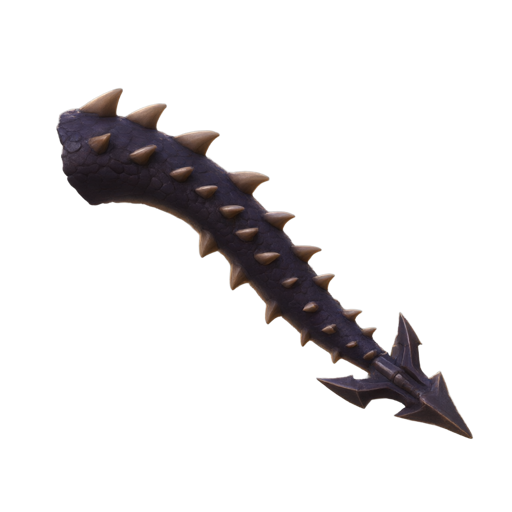
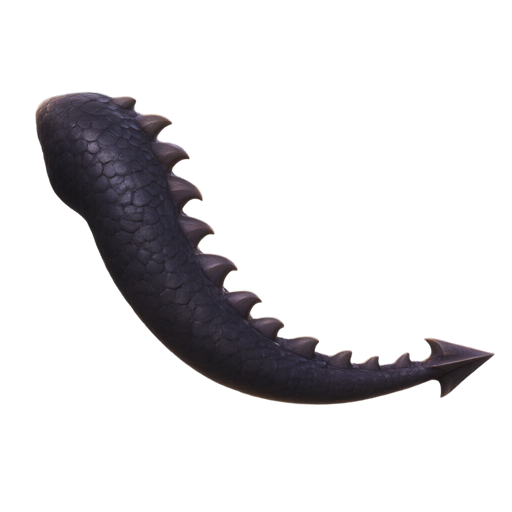
Anchor cosmetics on measured roots, not eyeballed ones
Crystal, demon and lightning wings hung in the air beside the dragon.
Their root points were placed by eye and several landed in transparent
space rather than on the wing, so the visible art sat off to one side of
where it was pinned. Leather looked right only because its guess
happened to be close.

Measured every root the same way instead: the centroid of the opaque
pixels in the leftmost slice of each image, which is the arm or tail
base. Leather's measurement came out within a few pixels of the value
that already worked, which is what made the method trustworthy for the
rest. Crystal was out by 109 pixels, phoenix by 133.

Sized the lightning wing separately. Its frame carries a sparks halo, so
only 83% of the width is solid wing against ~93% for the others; sharing
their reach value left it visibly small.

Replaced the demon and flame tails. Both were generated as steep, thin
curls and read as a spear and a stub rather than tails. The new pair is
thick and sweeps out, matching the rest of the set.

Version 0.22 -> 0.23.

Changed region(s): [[0.0625, 0.1562, 0.9688, 0.875]]

diff --git a/games/dragon/art.js b/games/dragon/art.js
@@ -17,8 +17,8 @@
    Olcekler seviye 99'da bile 200x200 kadraja sigacak sekilde secildi:
    en genis nokta kanat ucu (x = ±120), yani 120 * wing * s <= ~96. */
 
-import { palet, HEADS, FACES } from './data.js?v30';
-import { CONFIG, growthRatio } from './config.js?v30';
+import { palet, HEADS, FACES } from './data.js?v31';
+import { CONFIG, growthRatio } from './config.js?v31';
 
 /* Ayni sayfada birden fazla ejderha olabilir; degrade ve maske id'leri
    catismasin diye sayac. */
@@ -1049,42 +1049,46 @@ const KATMAN = {
     leather: {
       yol: 'assets/wing-leather.png',
       kare: 1024, x0: 223, y0: 191, x1: 863, y1: 837,
-      kok: { x: 272, y: 700 }, uzanim: 0.53,
+      kok: { x: 267, y: 715 }, uzanim: 0.53,
     },
     flame: {
       yol: 'assets/wing-flame.png',
       kare: 1024, x0: 148, y0: 93, x1: 933, y1: 916,
-      kok: { x: 195, y: 715 }, uzanim: 0.54,
+      kok: { x: 201, y: 747 }, uzanim: 0.54,
     },
     crystal: {
       yol: 'assets/wing-crystal.png',
       kare: 1024, x0: 210, y0: 135, x1: 909, y1: 864,
-      kok: { x: 252, y: 670 }, uzanim: 0.545,
+      kok: { x: 260, y: 779 }, uzanim: 0.545,
     },
     demon: {
       yol: 'assets/wing-demon.png',
       kare: 1024, x0: 176, y0: 110, x1: 907, y1: 914,
-      kok: { x: 205, y: 845 }, uzanim: 0.55,
+      kok: { x: 229, y: 852 }, uzanim: 0.55,
     },
     phoenix: {
       yol: 'assets/wing-phoenix.png',
       kare: 1024, x0: 202, y0: 59, x1: 931, y1: 879,
-      kok: { x: 248, y: 590 }, uzanim: 0.555,
+      kok: { x: 253, y: 723 }, uzanim: 0.555,
     },
     lightning: {
       yol: 'assets/wing-lightning.png',
       kare: 1024, x0: 122, y0: 163, x1: 977, y1: 810,
-      kok: { x: 152, y: 700 }, uzanim: 0.56,
+      /* uzanim digerlerinden yuksek: bu gorselin cercevesinin sag ~%8'i
+         kivilcim/hale, yani KATI kanat cercevenin sadece %83.5'ine
+         kadar gidiyor (otekilerde ~%93). Ayni uzanim degeri verilince
+         katı kanat gorunur sekilde kucuk kaliyordu. */
+      kok: { x: 186, y: 699 }, uzanim: 0.63,
     },
     king: {
       yol: 'assets/wing-king.png',
       kare: 1024, x0: 147, y0: 148, x1: 923, y1: 907,
-      kok: { x: 200, y: 733 }, uzanim: 0.565,
+      kok: { x: 207, y: 761 }, uzanim: 0.565,
     },
     celestial: {
       yol: 'assets/wing-celestial.png',
       kare: 1024, x0: 183, y0: 167, x1: 873, y1: 883,
-      kok: { x: 213, y: 797 }, uzanim: 0.57,
+      kok: { x: 234, y: 805 }, uzanim: 0.57,
     },
   },
 
@@ -1095,42 +1099,42 @@ const KATMAN = {
     basic: {
       yol: 'assets/tail-basic.png',
       kare: 1024, x0: 182, y0: 202, x1: 906, y1: 862,
-      kok: { x: 244, y: 256 }, uzanim: 0.36,
+      kok: { x: 232, y: 325 }, uzanim: 0.36,
     },
     spiked: {
       yol: 'assets/tail-spiked.png',
       kare: 1024, x0: 150, y0: 170, x1: 862, y1: 842,
-      kok: { x: 195, y: 203 }, uzanim: 0.365,
+      kok: { x: 198, y: 245 }, uzanim: 0.365,
     },
     flame: {
       yol: 'assets/tail-flame.png',
-      kare: 1024, x0: 162, y0: 240, x1: 914, y1: 798,
-      kok: { x: 239, y: 299 }, uzanim: 0.37,
+      kare: 1024, x0: 88, y0: 158, x1: 1008, y1: 772,
+      kok: { x: 154, y: 303 }, uzanim: 0.43,
     },
     crystal: {
       yol: 'assets/tail-crystal.png',
       kare: 1024, x0: 150, y0: 166, x1: 866, y1: 862,
-      kok: { x: 224, y: 244 }, uzanim: 0.375,
+      kok: { x: 199, y: 304 }, uzanim: 0.375,
     },
     demon: {
       yol: 'assets/tail-demon.png',
-      kare: 1024, x0: 112, y0: 176, x1: 944, y1: 876,
-      kok: { x: 167, y: 256 }, uzanim: 0.38,
+      kare: 1024, x0: 70, y0: 184, x1: 988, y1: 808,
+      kok: { x: 135, y: 296 }, uzanim: 0.44,
     },
     lightning: {
       yol: 'assets/tail-lightning.png',
       kare: 1024, x0: 148, y0: 144, x1: 908, y1: 864,
-      kok: { x: 225, y: 220 }, uzanim: 0.385,
+      kok: { x: 203, y: 277 }, uzanim: 0.385,
     },
     king: {
       yol: 'assets/tail-king.png',
       kare: 1024, x0: 164, y0: 140, x1: 892, y1: 850,
-      kok: { x: 221, y: 193 }, uzanim: 0.39,
+      kok: { x: 213, y: 210 }, uzanim: 0.39,
     },
     celestial: {
       yol: 'assets/tail-celestial.png',
       kare: 1024, x0: 156, y0: 146, x1: 912, y1: 840,
-      kok: { x: 255, y: 213 }, uzanim: 0.40,
+      kok: { x: 211, y: 344 }, uzanim: 0.40,
     },
   },
 };

diff --git a/games/dragon/dragon.js b/games/dragon/dragon.js
@@ -9,17 +9,17 @@
    Burada hicbir fiyat, hicbir XP degeri ve hicbir bakiye aritmetigi yok -
    ileride dengeleme yaparken bu dosyayi acmak gerekmemeli. */
 
-import { initTelegram, haptic, showBackButton, backToHubOnResume } from '../../js/tg.js?v30';
-import { registerTexts, registerItemTexts, t, applyStaticTexts, locale } from '../../js/i18n-hook.js?v30';
+import { initTelegram, haptic, showBackButton, backToHubOnResume } from '../../js/tg.js?v31';
+import { registerTexts, registerItemTexts, t, applyStaticTexts, locale } from '../../js/i18n-hook.js?v31';
 
-import { CONFIG, feedCost, xpNeeded, rewardForLevel } from './config.js?v30';
-import { SLOTS, KATALOG, AURAS, ISLANDS, RARITIES, ada as adaTemasi } from './data.js?v30';
-import { bakiyeOku, harca } from './economy.js?v30';
+import { CONFIG, feedCost, xpNeeded, rewardForLevel } from './config.js?v31';
+import { SLOTS, KATALOG, AURAS, ISLANDS, RARITIES, ada as adaTemasi } from './data.js?v31';
+import { bakiyeOku, harca } from './economy.js?v31';
 import { oyuncuyuYukle, oyuncuyuKaydet, aktifEjderha, sahipMi, dolabaEkle,
-         adaSahipMi, adaEkle } from './model.js?v30';
-import { dragonSvg, headSvg, faceSvg, HEAD_BOX, GOVDE_MERKEZ_ORANI } from './art.js?v30';
-import { ITEM_TEXTS } from './i18n-items.js?v30';
-import { createIsland } from './island.js?v30';
+         adaSahipMi, adaEkle } from './model.js?v31';
+import { dragonSvg, headSvg, faceSvg, HEAD_BOX, GOVDE_MERKEZ_ORANI } from './art.js?v31';
+import { ITEM_TEXTS } from './i18n-items.js?v31';
+import { createIsland } from './island.js?v31';
 
 const GAME_ID = 'dragon';
 

diff --git a/js/i18n.js b/js/i18n.js
@@ -16,7 +16,7 @@ const DICT = {
     'hub.title': 'Mini Hub Pocket Games',
     'hub.subtitle': 'Play the games, earn coins, and raise your dragon into a legend.',
     'hub.gamesTitle': 'Games',
-    'hub.version': 'Version 0.22',
+    'hub.version': 'Version 0.23',
     'hub.play': 'Play',
     'hub.soon': 'Soon',
     'hub.record': 'Record {best}',
@@ -312,7 +312,7 @@ const DICT = {
     'hub.title': 'Mini Hub Pocket Games',
     'hub.subtitle': 'Oyunları oyna, jeton kazan, ejderhanı efsaneye dönüştür.',
     'hub.gamesTitle': 'Oyunlar',
-    'hub.version': 'Sürüm 0.22',
+    'hub.version': 'Sürüm 0.23',
     'hub.play': 'Oyna',
     'hub.soon': 'Yakında',
     'hub.record': 'Rekor {best}',
@@ -608,7 +608,7 @@ const DICT = {
     'hub.title': 'Mini Hub Pocket Games',
     'hub.subtitle': 'Juega, gana monedas y convierte a tu dragón en una leyenda.',
     'hub.gamesTitle': 'Juegos',
-    'hub.version': 'Versión 0.22',
+    'hub.version': 'Versión 0.23',
     'hub.play': 'Jugar',
     'hub.soon': 'Pronto',
     'hub.record': 'Récord {best}',
@@ -904,7 +904,7 @@ const DICT = {
     'hub.title': 'Mini Hub Pocket Games',
     'hub.subtitle': 'Играй, зарабатывай монеты и вырасти своего дракона до легенды.',
     'hub.gamesTitle': 'Игры',
-    'hub.version': 'Версия 0.22',
+    'hub.version': 'Версия 0.23',
     'hub.play': 'Играть',
     'hub.soon': 'Скоро',
     'hub.record': 'Рекорд {best}',

diff --git a/js/hub.js b/js/hub.js
@@ -1,12 +1,12 @@
 /* Hub (ana menu) ekraninin mantigi.
 Yeni oyun eklemek istedigimizde sadece asagidaki gameList() fonksiyonuna satir ekliyoruz. */
 
-import { initTelegram, getUser, haptic, hideBackButton, isTelegramUser } from './tg.js?v30';
+import { initTelegram, getUser, haptic, hideBackButton, isTelegramUser } from './tg.js?v31';
 import {
    getPoints, getBest, sunucuDurumu,
    getEnergy, getStreak, claimStreak, getSpin, spinWheel, odulDurumu, liderTablosu,
-} from './store.js?v30';
-import { initLang, t, locale, applyTranslations, renderLangSwitcher } from './i18n.js?v30';
+} from './store.js?v31';
+import { initLang, t, locale, applyTranslations, renderLangSwitcher } from './i18n.js?v31';
 
 /* Botun Telegram adresi. Kendi botunun adini yazarsan tarayicida acan
    kullanicilar uyariya dokununca dogrudan bota gider. Bos birakilirsa

diff --git a/games/2048/2048.js b/games/2048/2048.js
@@ -4,9 +4,9 @@ Tahta 16 kutudan olusur (4x4). Her kutuda ya bir tas vardir ya da bostur.
 Bir yone kaydirinca tum taslar o yone gider, ayni sayilar birlesir,
 sonra bos bir kutuya yeni bir tas dogar. */
 
-import { initTelegram, haptic, showBackButton, backToHubOnResume } from '../../js/tg.js?v30';
-import { submitScore, getBest, addPoints, saveState, loadState, clearState } from '../../js/store.js?v30';
-import { initLang, t, locale, applyTranslations } from '../../js/i18n.js?v30';
+import { initTelegram, haptic, showBackButton, backToHubOnResume } from '../../js/tg.js?v31';
+import { submitScore, getBest, addPoints, saveState, loadState, clearState } from '../../js/store.js?v31';
+import { initLang, t, locale, applyTranslations } from '../../js/i18n.js?v31';
 
 const SIZE = 4;
 const GAME_ID = '2048';

diff --git a/games/minesweeper/minesweeper.js b/games/minesweeper/minesweeper.js
@@ -14,9 +14,9 @@
    Ilk dokunus da her zaman guvenlidir: mayinlar ilk dokunustan SONRA,
    dokundugun hucrenin ve komsularinin disina yerlestirilir. */
 
-import { initTelegram, haptic, showBackButton, backToHubOnResume } from '../../js/tg.js?v30';
-import { submitScore, addPoints, getBest, saveState, loadState, clearState } from '../../js/store.js?v30';
-import { registerTexts, t, applyStaticTexts, locale } from '../../js/i18n-hook.js?v30';
+import { initTelegram, haptic, showBackButton, backToHubOnResume } from '../../js/tg.js?v31';
+import { submitScore, addPoints, getBest, saveState, loadState, clearState } from '../../js/store.js?v31';
+import { registerTexts, t, applyStaticTexts, locale } from '../../js/i18n-hook.js?v31';
 
 const GAME_ID = 'minesweeper';
 /* EKONOMI DENGESI

diff --git a/games/tripletile/tripletile.js b/games/tripletile/tripletile.js
@@ -9,9 +9,9 @@
    calisiriz - her adimda o an oynanabilir durumdaki uc tasi secip ayni
    cesidi veririz. Boylece her bolumun cozumu kesin vardir. */
 
-import { initTelegram, haptic, showBackButton, backToHubOnResume } from '../../js/tg.js?v30';
-import { submitScore, addPoints, getBest, saveState, loadState, clearState } from '../../js/store.js?v30';
-import { registerTexts, t, applyStaticTexts, locale } from '../../js/i18n-hook.js?v30';
+import { initTelegram, haptic, showBackButton, backToHubOnResume } from '../../js/tg.js?v31';
+import { submitScore, addPoints, getBest, saveState, loadState, clearState } from '../../js/store.js?v31';
+import { registerTexts, t, applyStaticTexts, locale } from '../../js/i18n-hook.js?v31';
 
 const GAME_ID = 'tripletile';
 /* EKONOMI DENGESI

diff --git a/games/blockblast/blockblast.js b/games/blockblast/blockblast.js
@@ -4,9 +4,9 @@
    Dolan satir ve sutunlar patlar. Eldeki hicbir parca hicbir yere sigmiyorsa
    oyun biter. Sure yok, kaybetme baskisi yok. */
 
-import { initTelegram, haptic, showBackButton, backToHubOnResume } from '../../js/tg.js?v30';
-import { submitScore, addPoints, getBest, saveState, loadState, clearState } from '../../js/store.js?v30';
-import { registerTexts, t, applyStaticTexts, locale } from '../../js/i18n-hook.js?v30';
+import { initTelegram, haptic, showBackButton, backToHubOnResume } from '../../js/tg.js?v31';
+import { submitScore, addPoints, getBest, saveState, loadState, clearState } from '../../js/store.js?v31';
+import { registerTexts, t, applyStaticTexts, locale } from '../../js/i18n-hook.js?v31';
 
 const GAME_ID = 'blockblast';
 const SIZE = 8;

diff --git a/games/watersort/watersort.js b/games/watersort/watersort.js
@@ -8,9 +8,9 @@
    sonra geri alinabilir hamlelerle karistir. Boylece her bolumun cozumu
    kesin vardir (karistirma hamlelerini tersten oynamak yeter). */
 
-import { initTelegram, haptic, showBackButton, backToHubOnResume } from '../../js/tg.js?v30';
-import { submitScore, addPoints, getBest, saveState, loadState, clearState } from '../../js/store.js?v30';
-import { registerTexts, t, applyStaticTexts } from '../../js/i18n-hook.js?v30';
+import { initTelegram, haptic, showBackButton, backToHubOnResume } from '../../js/tg.js?v31';
+import { submitScore, addPoints, getBest, saveState, loadState, clearState } from '../../js/store.js?v31';
+import { registerTexts, t, applyStaticTexts } from '../../js/i18n-hook.js?v31';
 
 const GAME_ID = 'watersort';
 /* EKONOMI DENGESI

diff --git a/games/match3/match3.js b/games/match3/match3.js
@@ -5,9 +5,9 @@
    ustundekiler asagi duser, yukaridan yenileri gelir. Zincirleme patlamalar
    daha cok puan verir. Tur 60 saniye surer. */
 
-import { initTelegram, haptic, showBackButton, backToHubOnResume } from '../../js/tg.js?v30';
-import { submitScore, addPoints, getBest, saveState, loadState, clearState } from '../../js/store.js?v30';
-import { registerTexts, t, applyStaticTexts, locale } from '../../js/i18n-hook.js?v30';
+import { initTelegram, haptic, showBackButton, backToHubOnResume } from '../../js/tg.js?v31';
+import { submitScore, addPoints, getBest, saveState, loadState, clearState } from '../../js/store.js?v31';
+import { registerTexts, t, applyStaticTexts, locale } from '../../js/i18n-hook.js?v31';
 
 const GAME_ID = 'match3';
 const SIZE = 8;

diff --git a/games/flow/flow.js b/games/flow/flow.js
@@ -11,9 +11,9 @@
    etmek zorunda degil - hangi yoldan giderse gitsin, ciftler baglanip
    izgara dolarsa bolum biter. */
 
-import { initTelegram, haptic, showBackButton, backToHubOnResume } from '../../js/tg.js?v30';
-import { submitScore, addPoints, getBest, saveState, loadState, clearState } from '../../js/store.js?v30';
-import { registerTexts, t, applyStaticTexts, locale } from '../../js/i18n-hook.js?v30';
+import { initTelegram, haptic, showBackButton, backToHubOnResume } from '../../js/tg.js?v31';
+import { submitScore, addPoints, getBest, saveState, loadState, clearState } from '../../js/store.js?v31';
+import { registerTexts, t, applyStaticTexts, locale } from '../../js/i18n-hook.js?v31';
 
 const GAME_ID = 'flow';
 /* EKONOMI DENGESI

diff --git a/games/snake/snake.js b/games/snake/snake.js
@@ -12,9 +12,9 @@
 
    Hub'daki tek gercek zamanli oyun; kural anlatmayi gerektirmiyor. */
 
-import { initTelegram, haptic, showBackButton, backToHubOnResume } from '../../js/tg.js?v30';
-import { submitScore, addPoints, getBest, clearState } from '../../js/store.js?v30';
-import { registerTexts, t, applyStaticTexts, locale } from '../../js/i18n-hook.js?v30';
+import { initTelegram, haptic, showBackButton, backToHubOnResume } from '../../js/tg.js?v31';
+import { submitScore, addPoints, getBest, clearState } from '../../js/store.js?v31';
+import { registerTexts, t, applyStaticTexts, locale } from '../../js/i18n-hook.js?v31';
 
 const GAME_ID = 'snake';
 const INTRO_SEEN_KEY = 'mh_snake_seen'; /* giris ekrani bir kez gosterilir */
